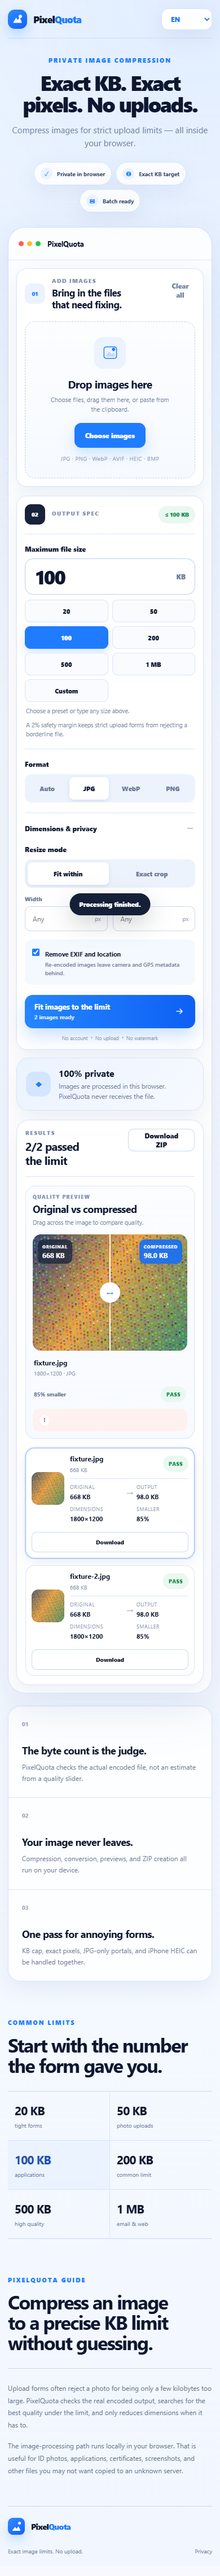
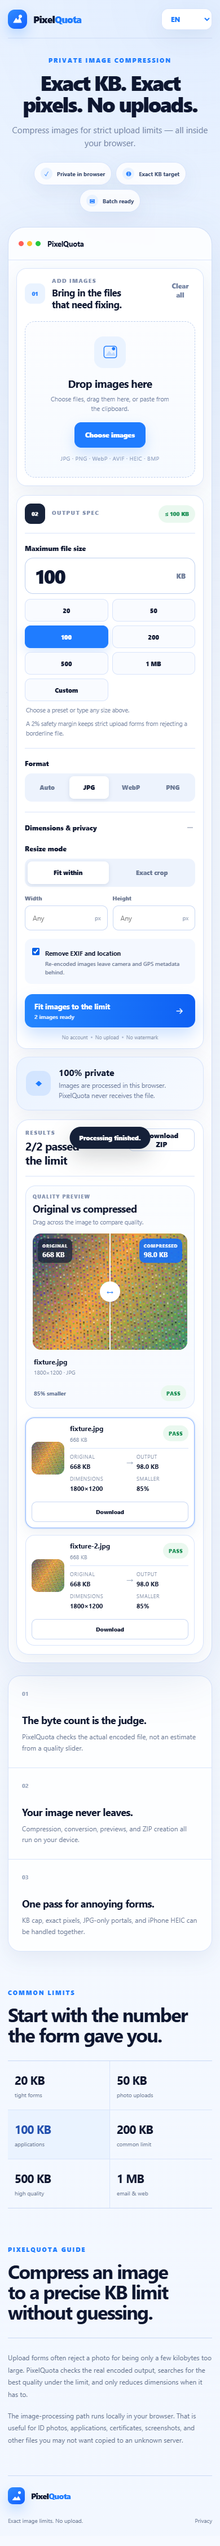
Fix hidden success warning

diff --git a/src/app.css b/src/app.css
@@ -9,7 +9,7 @@
 .hero-section{text-align:center;padding:clamp(34px,4.3vw,70px) 0 clamp(26px,3vw,46px)}.eyebrow{font-size:11px;line-height:1.2;letter-spacing:.17em;font-weight:900;color:var(--blue);margin:0 0 14px}.hero-section h1{margin:0 auto;font-size:clamp(42px,4.25vw,76px);line-height:1;letter-spacing:-.058em;font-weight:820;white-space:nowrap;max-width:100%;text-wrap:nowrap}.hero-sub{max-width:900px;margin:16px auto 0;color:var(--muted);font-size:clamp(16px,1.22vw,21px);line-height:1.55;text-wrap:pretty}.hero-pills{display:flex;justify-content:center;gap:10px;flex-wrap:wrap;margin-top:22px}.hero-pills>span{display:inline-flex;align-items:center;gap:8px;padding:11px 15px;border:1px solid var(--line);background:rgba(255,255,255,.82);border-radius:999px;box-shadow:var(--shadow-soft);color:#334569}.hero-pills i{width:21px;height:21px;border-radius:50%;display:grid;place-items:center;background:var(--blue-soft);color:var(--blue);font-style:normal;font-size:11px;font-weight:900}.hero-pills b{font-size:12px;font-weight:750}
 .app-window{width:100%;max-width:2200px;margin:0 auto;border:1px solid rgba(207,220,247,.95);background:rgba(255,255,255,.82);border-radius:30px;box-shadow:var(--shadow);overflow:hidden;backdrop-filter:blur(16px)}.window-header{min-height:66px;padding:0 clamp(18px,1.6vw,30px);display:flex;align-items:center;justify-content:space-between;gap:18px;border-bottom:1px solid rgba(216,228,251,.95)}.window-brand{display:flex;align-items:center;gap:12px}.window-brand>strong{font-size:13px;letter-spacing:-.02em}.traffic{display:flex;gap:6px}.traffic i{width:9px;height:9px;border-radius:50%;display:block}.traffic i:nth-child(1){background:#ff5f57}.traffic i:nth-child(2){background:#ffbd2e}.traffic i:nth-child(3){background:#28c840}.window-security{display:flex;align-items:center;gap:9px;color:#6b7a99;font-size:12px;font-weight:700}.workbench{display:grid;grid-template-columns:minmax(390px,.72fr) minmax(0,1.28fr);gap:clamp(20px,1.5vw,32px);padding:clamp(20px,2vw,38px)}.controls-column,.results-panel{min-width:0}.controls-column{display:flex;flex-direction:column;gap:16px}.tool-card,.privacy-card,.empty-results,.results-section{background:rgba(255,255,255,.95);border:1px solid var(--line);border-radius:22px;box-shadow:var(--shadow-soft)}.tool-card{padding:20px}.pane-heading{display:flex;align-items:flex-start;justify-content:space-between;gap:16px}.pane-heading>div,.spec-topline>div{display:flex;align-items:center;gap:12px}.pane-heading p,.spec-topline p,.results-heading p{font-size:10px;font-weight:900;letter-spacing:.14em;color:#8290ad;margin:0 0 4px}.pane-heading h2,.results-heading h3{font-size:20px;letter-spacing:-.03em;margin:0;line-height:1.25;text-wrap:balance}.step-chip{width:36px;height:36px;border-radius:11px;background:var(--blue-soft);display:grid;place-items:center;font-size:10px;font-weight:900;color:var(--blue);flex:none}.step-chip.inverse{background:#18233a;color:#fff}.quiet-button{border:0;background:none;padding:8px;color:#6f7f9f;font-size:12px;font-weight:800;cursor:pointer}.drop-zone{position:relative;margin-top:18px;min-height:245px;border:1.5px dashed #bfd0ef;border-radius:18px;background:linear-gradient(180deg,#fcfdff,#f6faff);display:flex;flex-direction:column;align-items:center;justify-content:center;text-align:center;padding:28px 22px;cursor:pointer;outline:none;transition:.18s}.drop-zone:hover,.drop-zone:focus-visible,.drop-zone.dragging{border-color:#72a0ff;background:#f3f8ff;box-shadow:inset 0 0 0 1px rgba(31,124,255,.16)}.drop-visual{width:56px;height:56px;border-radius:16px;background:var(--blue-soft);display:grid;place-items:center;color:var(--blue);margin-bottom:14px}.drop-visual svg{width:31px;height:31px}.drop-zone>strong{font-size:20px;letter-spacing:-.03em}.drop-zone>span{margin-top:6px;font-size:12px;line-height:1.55;color:var(--muted);max-width:420px;text-wrap:pretty}.drop-zone>small{margin-top:12px;font-size:10px;letter-spacing:.04em;color:#91a1c1}.drop-actions{display:flex;gap:10px;margin-top:16px}.button{height:44px;border-radius:12px;padding:0 18px;display:inline-flex;align-items:center;justify-content:center;border:1px solid var(--line-strong);background:#fff;font-size:12px;font-weight:850;cursor:pointer;transition:.15s}.button:hover{transform:translateY(-1px)}.button.primary{background:var(--blue);border-color:var(--blue);color:#fff;box-shadow:0 10px 22px rgba(31,124,255,.2)}.button.secondary:hover{background:#f7faff}.button:disabled{opacity:.45;cursor:not-allowed;transform:none}.button.compact{height:40px;border-radius:10px}.spec-pane{position:static}.spec-topline{display:flex;align-items:center;justify-content:space-between;gap:12px;padding-bottom:16px;border-bottom:1px solid var(--line)}.gate-badge{height:31px;padding:0 11px;border-radius:999px;background:var(--green-soft);color:var(--green);display:inline-flex;align-items:center;font-size:10px;font-weight:900;white-space:nowrap}.target-control{padding:18px 0}.target-control>label,.section-label>span{display:block;font-size:12px;font-weight:800}.target-input{margin-top:9px;height:68px;border:1px solid #bed0ef;border-radius:15px;background:#fff;display:flex;align-items:center;padding:0 16px}.target-input input{width:100%;min-width:0;border:0;outline:none;background:transparent;font-size:36px;line-height:1;font-weight:800;letter-spacing:-.05em}.target-input span{font-size:12px;font-weight:900;color:#6f7d99}.preset-row{display:grid;grid-template-columns:repeat(4,minmax(0,1fr));gap:7px;margin-top:9px}.preset-row button{min-height:36px;border:1px solid var(--line);border-radius:10px;background:#f9fbff;font-size:10px;font-weight:850;cursor:pointer}.preset-row button.active{background:var(--blue);color:#fff;border-color:var(--blue);box-shadow:0 7px 18px rgba(31,124,255,.18)}.custom-hint,.helper{font-size:10.5px;line-height:1.55;color:#7d8aa5;margin:8px 2px 0;text-wrap:pretty}.spec-section{padding:18px 0;border-top:1px solid var(--line)}.section-label{display:flex;align-items:baseline;justify-content:space-between;gap:10px;margin-bottom:10px}.section-label small{font-size:9.5px;color:#8b98b0}.segment-grid{display:grid;grid-template-columns:repeat(4,minmax(0,1fr));gap:5px;padding:5px;background:#edf3fd;border-radius:12px}.segment-grid.two{grid-template-columns:1fr 1fr}.segment-grid button{min-height:38px;border:0;border-radius:8px;background:transparent;font-size:11px;font-weight:850;color:#6d7b96;cursor:pointer}.segment-grid button.active{background:#fff;color:var(--ink);box-shadow:0 2px 7px rgba(24,47,95,.12)}.advanced-settings{border-top:1px solid var(--line)}.advanced-settings summary{min-height:54px;display:flex;align-items:center;justify-content:space-between;list-style:none;cursor:pointer;font-size:12px;font-weight:850}.advanced-settings summary::-webkit-details-marker{display:none}.advanced-settings summary i{width:18px;height:18px;position:relative}.advanced-settings summary i:before,.advanced-settings summary i:after{content:"";position:absolute;background:#7b88a0;left:50%;top:50%;transform:translate(-50%,-50%)}.advanced-settings summary i:before{width:10px;height:1px}.advanced-settings summary i:after{width:1px;height:10px;transition:opacity .15s}.advanced-settings[open] summary i:after{opacity:0}.advanced-inner{padding:2px 0 18px}.dimension-grid{display:grid;grid-template-columns:1fr 1fr;gap:9px;margin-top:13px}.dimension-grid label>span{display:block;font-size:10px;font-weight:850;margin-bottom:6px;color:#6c7891}.dimension-grid label>div{height:44px;border:1px solid var(--line-strong);border-radius:10px;background:#fff;display:flex;align-items:center;padding:0 11px}.dimension-grid input{width:100%;min-width:0;border:0;outline:none;background:transparent;font-size:12px}.dimension-grid em{font-size:10px;color:#8b98af;font-style:normal}.check-row{margin-top:15px;padding:13px;border-radius:12px;background:#f4f8ff;display:flex;gap:10px;align-items:flex-start;cursor:pointer}.check-row input{margin:3px 0 0;accent-color:var(--blue)}.check-row b{font-size:11px}.check-row small{display:block;font-size:10px;line-height:1.5;color:#74809a;margin-top:3px;font-weight:500}.process-button{width:100%;min-height:58px;border:0;border-radius:14px;background:linear-gradient(90deg,#2486ff,#0e60f4);color:#fff;padding:0 17px;display:flex;align-items:center;justify-content:space-between;gap:12px;cursor:pointer;transition:.15s;box-shadow:0 14px 28px rgba(31,124,255,.22)}.process-button:hover:not(:disabled){filter:brightness(.96);transform:translateY(-1px)}.process-button:disabled{background:#dfe7f4;color:#8795ae;cursor:not-allowed;box-shadow:none}.process-button span{text-align:left}.process-button b{display:block;font-size:13px}.process-button small{display:block;margin-top:3px;font-size:10px;font-weight:650;opacity:.82}.process-button svg{width:20px;flex:none}.process-button.busy{animation:pulse 1.1s ease-in-out infinite}@keyframes pulse{50%{filter:brightness(.92)}}.spec-foot{margin-top:11px;display:flex;align-items:center;justify-content:center;gap:7px;font-size:9.5px;color:#8996ae}.spec-foot span:nth-child(even){width:3px;height:3px;border-radius:50%;background:#b1bfd4}
 .results-panel{display:flex;flex-direction:column;gap:16px}.privacy-card{display:grid;grid-template-columns:auto 1fr;gap:14px;align-items:center;padding:18px 20px;background:linear-gradient(135deg,#eaf3ff,#f7faff)}.privacy-icon{width:44px;height:44px;border-radius:14px;display:grid;place-items:center;background:rgba(31,124,255,.12);color:var(--blue);font-size:16px}.privacy-card h3{font-size:16px;margin:0 0 4px}.privacy-card p{font-size:11.5px;line-height:1.55;color:#6e7d9c;margin:0}.empty-results{min-height:590px;display:flex;flex-direction:column;align-items:center;justify-content:center;text-align:center;padding:34px;background:rgba(255,255,255,.84)}.empty-results[hidden]{display:none}.empty-ring{width:52px;height:52px;border:2px dashed #b9cdef;border-radius:50%;position:relative;margin-bottom:14px}.empty-ring:after{content:"";position:absolute;width:9px;height:9px;border-radius:50%;background:var(--blue);left:50%;top:50%;transform:translate(-50%,-50%);box-shadow:0 0 0 7px var(--blue-soft)}.empty-results h3{margin:0 0 7px;font-size:21px;letter-spacing:-.03em}.empty-results p{margin:0;max-width:360px;color:var(--muted);font-size:12px;line-height:1.6;text-wrap:pretty}.results-section{padding:20px;min-height:590px}.results-heading{display:flex;align-items:flex-end;justify-content:space-between;gap:16px;padding-bottom:16px;border-bottom:1px solid var(--line)}.result-list{display:grid;gap:12px;margin-top:16px}.result-card{min-height:108px;border:1px solid var(--line);border-radius:16px;background:#fff;display:grid;grid-template-columns:82px minmax(140px,.9fr) minmax(290px,1.45fr) 105px;grid-template-rows:auto auto;align-items:center;gap:11px 15px;padding:13px;transition:.15s}.result-card:hover{box-shadow:0 9px 25px rgba(31,63,126,.07)}.thumb{width:82px;height:82px;border-radius:12px;overflow:hidden;background:#eef4ff;display:grid;place-items:center;grid-row:1/3}.thumb img{width:100%;height:100%;object-fit:cover}.thumb.placeholder span{font-size:10px;font-weight:900;color:#7887a5}.thumb.error-thumb span{color:var(--red);font-size:18px}.result-info{min-width:0}.result-info strong{display:block;font-size:12px;white-space:nowrap;overflow:hidden;text-overflow:ellipsis}.result-info span{display:block;font-size:10px;color:#8592aa;margin-top:5px}.size-flow{display:grid;grid-template-columns:auto 18px auto auto auto;gap:10px;align-items:center}.size-flow>div span{display:block;font-size:9px;text-transform:uppercase;letter-spacing:.06em;color:#8e9ab0}.size-flow>div b{display:block;margin-top:4px;font-size:11px;white-space:nowrap}.size-flow>i{font-style:normal;color:#a1aec2}.dimension-note,.saving-note{padding-left:10px;border-left:1px solid var(--line)}.result-status{display:flex;flex-direction:column;align-items:flex-end}.status{height:28px;padding:0 10px;border-radius:999px;display:inline-flex;align-items:center;font-size:9px;font-weight:900;letter-spacing:.06em}.status.pending{background:#eef3fb;color:#6e7d99}.status.pass{background:var(--green-soft);color:var(--green)}.status.fail{background:var(--red-soft);color:#a13d37}.progress{width:82px;height:4px;background:#edf2fa;border-radius:999px;margin-top:8px;overflow:hidden}.progress i{display:block;height:100%;width:0;background:var(--blue);transition:width .2s}.result-reason{grid-column:2/4;grid-row:2;display:flex;align-items:flex-start;gap:8px;padding:10px 12px;border-radius:10px;background:var(--red-soft);color:#863a36;font-size:10px;line-height:1.5}.result-reason strong{flex:none;width:17px;height:17px;border-radius:50%;display:grid;place-items:center;background:#fff;font-size:10px}.result-action{grid-column:4;grid-row:2;justify-self:end}.result-action button{height:36px;padding:0 13px;border:1px solid var(--line-strong);border-radius:9px;background:#fff;font-size:10px;font-weight:850;cursor:pointer}
-.comparison-panel{margin-top:16px;padding:16px;border:1px solid var(--line);border-radius:18px;background:linear-gradient(180deg,#fbfdff,#f7faff)}.comparison-copy{display:flex;align-items:flex-end;justify-content:space-between;gap:18px;margin-bottom:12px}.comparison-copy p{font-size:9px;font-weight:900;letter-spacing:.14em;color:#8290ad;margin:0 0 4px}.comparison-copy h3{font-size:18px;letter-spacing:-.03em;margin:0}.comparison-copy>span{max-width:310px;color:#7b89a6;font-size:10.5px;line-height:1.5;text-align:right}.comparison-stage{--compare-position:50%;position:relative;aspect-ratio:16/9;max-height:430px;overflow:hidden;border-radius:15px;background:linear-gradient(135deg,#eaf2ff,#f8fbff);box-shadow:inset 0 0 0 1px rgba(190,208,239,.85)}.comparison-image{position:absolute;inset:0;width:100%;height:100%;object-fit:cover;display:block;pointer-events:none}.comparison-output-mask{position:absolute;inset:0;clip-path:inset(0 0 0 var(--compare-position));overflow:hidden}.comparison-output-mask .comparison-output{position:absolute;inset:0}.comparison-badge{position:absolute;z-index:4;top:14px;display:flex;flex-direction:column;gap:2px;padding:8px 10px;border-radius:10px;color:#fff;box-shadow:0 8px 22px rgba(20,42,88,.16);pointer-events:none}.comparison-badge span{font-size:8px;text-transform:uppercase;letter-spacing:.08em;font-weight:850;opacity:.86}.comparison-badge strong{font-size:12px}.original-badge{left:14px;background:rgba(22,34,58,.76)}.output-badge{right:14px;background:rgba(20,111,248,.9)}.comparison-divider{position:absolute;z-index:5;left:var(--compare-position);top:0;bottom:0;width:2px;background:#fff;box-shadow:0 0 0 1px rgba(25,66,130,.08);transform:translateX(-1px);pointer-events:none}.comparison-divider span{position:absolute;left:50%;top:50%;transform:translate(-50%,-50%);width:40px;height:40px;border-radius:50%;display:grid;place-items:center;background:#fff;color:var(--blue);font-size:15px;font-weight:900;box-shadow:0 7px 20px rgba(25,68,145,.22)}.comparison-range{position:absolute;z-index:6;inset:0;width:100%;height:100%;margin:0;opacity:0;cursor:ew-resize}.comparison-unavailable{position:absolute;z-index:7;left:50%;top:50%;transform:translate(-50%,-50%);max-width:70%;padding:12px 16px;border-radius:12px;background:rgba(255,255,255,.94);color:#687797;font-size:11px;text-align:center;box-shadow:var(--shadow-soft)}.comparison-meta{display:flex;align-items:center;justify-content:space-between;gap:16px;padding:13px 2px 0}.comparison-meta>div:first-child{min-width:0}.comparison-meta strong{display:block;max-width:520px;overflow:hidden;text-overflow:ellipsis;white-space:nowrap;font-size:12px}.comparison-meta>div:first-child span{display:block;margin-top:4px;color:#8592aa;font-size:10px}.comparison-stats{display:flex;align-items:center;gap:9px;color:#5e6f90;font-size:10px;font-weight:750}.comparison-failure{display:flex;align-items:flex-start;gap:8px;margin-top:12px;padding:11px 12px;border-radius:11px;background:var(--red-soft);color:#863a36;font-size:10px;line-height:1.55}.comparison-failure strong{flex:none;width:18px;height:18px;border-radius:50%;display:grid;place-items:center;background:#fff}.result-card{cursor:pointer}.result-card.selected{border-color:#8ab2ff;box-shadow:0 0 0 2px rgba(31,124,255,.10),0 9px 25px rgba(31,63,126,.08)}.result-card:focus-visible{outline:2px solid var(--blue);outline-offset:2px}
+.comparison-panel{margin-top:16px;padding:16px;border:1px solid var(--line);border-radius:18px;background:linear-gradient(180deg,#fbfdff,#f7faff)}.comparison-copy{display:flex;align-items:flex-end;justify-content:space-between;gap:18px;margin-bottom:12px}.comparison-copy p{font-size:9px;font-weight:900;letter-spacing:.14em;color:#8290ad;margin:0 0 4px}.comparison-copy h3{font-size:18px;letter-spacing:-.03em;margin:0}.comparison-copy>span{max-width:310px;color:#7b89a6;font-size:10.5px;line-height:1.5;text-align:right}.comparison-stage{--compare-position:50%;position:relative;aspect-ratio:16/9;max-height:430px;overflow:hidden;border-radius:15px;background:linear-gradient(135deg,#eaf2ff,#f8fbff);box-shadow:inset 0 0 0 1px rgba(190,208,239,.85)}.comparison-image{position:absolute;inset:0;width:100%;height:100%;object-fit:cover;display:block;pointer-events:none}.comparison-output-mask{position:absolute;inset:0;clip-path:inset(0 0 0 var(--compare-position));overflow:hidden}.comparison-output-mask .comparison-output{position:absolute;inset:0}.comparison-badge{position:absolute;z-index:4;top:14px;display:flex;flex-direction:column;gap:2px;padding:8px 10px;border-radius:10px;color:#fff;box-shadow:0 8px 22px rgba(20,42,88,.16);pointer-events:none}.comparison-badge span{font-size:8px;text-transform:uppercase;letter-spacing:.08em;font-weight:850;opacity:.86}.comparison-badge strong{font-size:12px}.original-badge{left:14px;background:rgba(22,34,58,.76)}.output-badge{right:14px;background:rgba(20,111,248,.9)}.comparison-divider{position:absolute;z-index:5;left:var(--compare-position);top:0;bottom:0;width:2px;background:#fff;box-shadow:0 0 0 1px rgba(25,66,130,.08);transform:translateX(-1px);pointer-events:none}.comparison-divider span{position:absolute;left:50%;top:50%;transform:translate(-50%,-50%);width:40px;height:40px;border-radius:50%;display:grid;place-items:center;background:#fff;color:var(--blue);font-size:15px;font-weight:900;box-shadow:0 7px 20px rgba(25,68,145,.22)}.comparison-range{position:absolute;z-index:6;inset:0;width:100%;height:100%;margin:0;opacity:0;cursor:ew-resize}.comparison-unavailable{position:absolute;z-index:7;left:50%;top:50%;transform:translate(-50%,-50%);max-width:70%;padding:12px 16px;border-radius:12px;background:rgba(255,255,255,.94);color:#687797;font-size:11px;text-align:center;box-shadow:var(--shadow-soft)}.comparison-meta{display:flex;align-items:center;justify-content:space-between;gap:16px;padding:13px 2px 0}.comparison-meta>div:first-child{min-width:0}.comparison-meta strong{display:block;max-width:520px;overflow:hidden;text-overflow:ellipsis;white-space:nowrap;font-size:12px}.comparison-meta>div:first-child span{display:block;margin-top:4px;color:#8592aa;font-size:10px}.comparison-stats{display:flex;align-items:center;gap:9px;color:#5e6f90;font-size:10px;font-weight:750}.comparison-failure{display:flex;align-items:flex-start;gap:8px;margin-top:12px;padding:11px 12px;border-radius:11px;background:var(--red-soft);color:#863a36;font-size:10px;line-height:1.55}.comparison-failure[hidden]{display:none!important}.comparison-failure strong{flex:none;width:18px;height:18px;border-radius:50%;display:grid;place-items:center;background:#fff}.result-card{cursor:pointer}.result-card.selected{border-color:#8ab2ff;box-shadow:0 0 0 2px rgba(31,124,255,.10),0 9px 25px rgba(31,63,126,.08)}.result-card:focus-visible{outline:2px solid var(--blue);outline-offset:2px}
 .results-workspace{display:grid;grid-template-columns:minmax(0,1.9fr) minmax(310px,.82fr);gap:16px;align-items:start;margin-top:16px}.results-workspace .comparison-panel{margin-top:0;min-width:0}.results-workspace .result-list{margin-top:0;max-height:548px;overflow-y:auto;overflow-x:hidden;padding-right:4px;align-content:start;scrollbar-width:thin;scrollbar-color:#bfd0ef transparent}.results-workspace .result-list::-webkit-scrollbar{width:8px}.results-workspace .result-list::-webkit-scrollbar-thumb{background:#bfd0ef;border-radius:999px}.results-workspace .result-list::-webkit-scrollbar-track{background:transparent}.results-workspace .result-card{min-height:0;grid-template-columns:58px minmax(0,1fr) auto;grid-template-rows:auto auto auto auto;gap:8px 10px;padding:10px}.results-workspace .thumb{width:58px;height:58px;grid-row:1/3}.results-workspace .result-info{grid-column:2;grid-row:1}.results-workspace .result-status{grid-column:3;grid-row:1}.results-workspace .size-flow{grid-column:2/4;grid-row:2;grid-template-columns:1fr 12px 1fr;grid-template-rows:auto auto;gap:6px 7px;border-top:1px solid var(--line);padding-top:8px}.results-workspace .size-flow>i{grid-column:2;grid-row:1;text-align:center}.results-workspace .dimension-note{grid-column:1;grid-row:2}.results-workspace .saving-note{grid-column:3;grid-row:2}.results-workspace .dimension-note,.results-workspace .saving-note{padding:0;border:0;margin-top:2px}.results-workspace .result-reason{grid-column:1/4;grid-row:3}.results-workspace .result-action{grid-column:1/4;grid-row:4;justify-self:stretch}.results-workspace .result-action button{width:100%}
 .ad-slot{max-width:1800px;margin:20px auto 0;border:1px solid var(--line);border-radius:18px;min-height:92px;padding:14px 20px;background:#fff}.ad-slot>span{display:block;font-size:9px;letter-spacing:.14em;color:#9aa7bc;margin-bottom:8px}.sponsor-link{display:flex;min-height:48px;align-items:center;justify-content:center;color:var(--ink);font-weight:800;text-decoration:none}.trust-strip{max-width:1800px;margin:22px auto 0;display:grid;grid-template-columns:repeat(3,1fr);border:1px solid var(--line);border-radius:22px;background:rgba(255,255,255,.82);overflow:hidden;box-shadow:var(--shadow-soft)}.trust-strip article{min-height:176px;padding:24px;display:flex;flex-direction:column;justify-content:space-between}.trust-strip article+article{border-left:1px solid var(--line)}.trust-strip article>b{font-size:10px;color:#96a3ba}.trust-strip h3{font-size:18px;letter-spacing:-.03em;margin:28px 0 8px;text-wrap:balance}.trust-strip p{font-size:12px;line-height:1.65;color:#6d7b96;margin:0;text-wrap:pretty}.limit-section,.seo-copy{max-width:1800px;margin:86px auto 0}.limit-copy{max-width:1120px}.limit-copy h2,.seo-copy h2{font-size:clamp(34px,3.2vw,56px);line-height:1.06;letter-spacing:-.05em;margin:0;text-wrap:balance}.limit-links{display:grid;grid-template-columns:repeat(6,1fr);margin-top:28px;border-top:1px solid var(--line-strong);border-bottom:1px solid var(--line-strong)}.limit-links button{appearance:none;color:var(--ink);text-align:left;background:transparent;border:0;border-right:1px solid var(--line);padding:22px 16px;cursor:pointer;transition:background .15s}.limit-links button:last-child{border-right:0}.limit-links button:hover,.limit-links button:focus-visible{background:#fff;outline:none}.limit-links button.active{background:var(--blue-soft);color:#214fae}.limit-links strong{display:block;font-size:21px;letter-spacing:-.04em}.limit-links span{display:block;font-size:10px;color:#74819a;margin-top:6px}.seo-copy{padding-bottom:76px}.seo-columns{display:grid;grid-template-columns:1fr 1fr;gap:64px;margin-top:28px;padding-top:24px;border-top:1px solid var(--line-strong)}.seo-columns p{font-size:13px;line-height:1.8;color:#65738d;margin:0;text-wrap:pretty}html[lang="zh-TW"] .limit-copy h2,html[lang="zh-TW"] .seo-copy h2{letter-spacing:-.035em;line-height:1.12}footer{max-width:1800px;margin:0 auto 24px;padding:24px 0;border-top:1px solid var(--line-strong);display:flex;align-items:center;gap:22px;color:#74819a;font-size:11px}.footer-brand{margin-right:auto}.footer-brand .brand-name{font-size:14px}footer p{margin:0}footer nav{display:flex;gap:16px}footer a{color:inherit;text-decoration:none}.toast{position:fixed;left:50%;bottom:24px;z-index:100;transform:translate(-50%,18px);opacity:0;pointer-events:none;background:#152038;color:#fff;border-radius:999px;padding:12px 17px;font-size:11px;font-weight:850;box-shadow:0 14px 38px rgba(16,23,32,.2);transition:.2s;max-width:min(90vw,680px);text-align:center}.toast.show{opacity:1;transform:translate(-50%,0)}
 @media(max-width:1320px){.hero-section h1{font-size:clamp(40px,5vw,64px)}.workbench{grid-template-columns:minmax(350px,.84fr) minmax(0,1.16fr)}.local-badge{display:none}.result-card{grid-template-columns:74px minmax(0,1fr) 100px}.thumb{width:74px;height:74px}.size-flow{grid-column:2/4;grid-row:2;grid-template-columns:auto 18px auto auto auto}.result-status{grid-column:3;grid-row:1}.result-reason{grid-column:2/4;grid-row:3}.result-action{grid-column:2/4;grid-row:4;justify-self:stretch}.result-action button{width:100%}}

diff --git a/CHANGELOG.md b/CHANGELOG.md
@@ -1,5 +1,10 @@
 # Changelog
 
+## 1.3.3 — 2026-09-17
+
+- Fixed the empty red failure banner appearing beneath successful before/after previews.
+- Added regression coverage to ensure successful results keep the failure message fully hidden.
+
 ## 1.3.2 — 2026-09-17
 
 - Moved the processed-image list beside the large before/after preview on desktop for a denser, cleaner result workspace.
